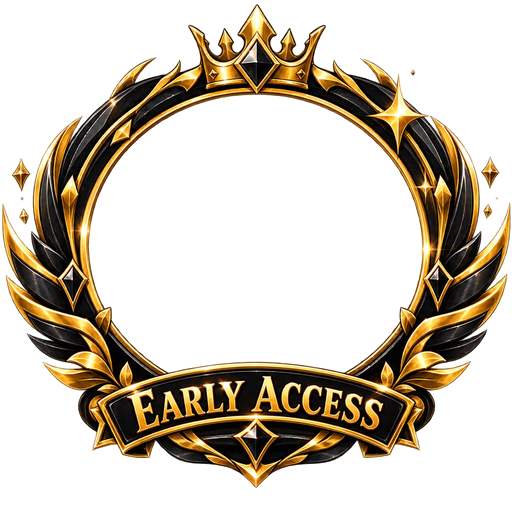
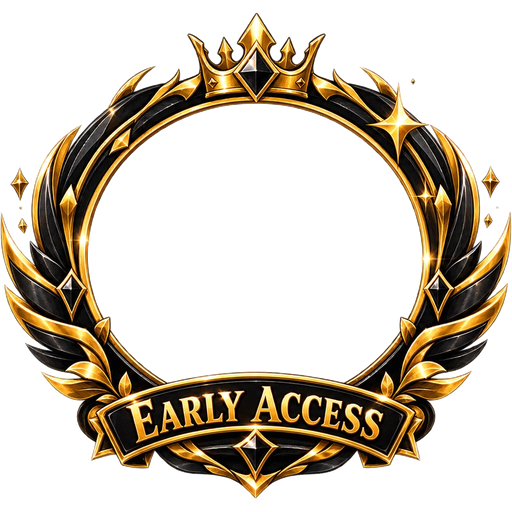
Add files via upload

diff --git a/app.js b/app.js
@@ -21,6 +21,7 @@ let FN_PLAYER_TOKEN = localStorage.getItem("FN_PLAYER_TOKEN") || "";
 let FN_ADMIN_TOKEN = localStorage.getItem("FN_ADMIN_TOKEN") || "";
 let FN_SERVER_PLAYER_ID = localStorage.getItem("FN_SERVER_PLAYER_ID") || "";
 let FN_SERVER_BALANCE = null;
+let GB_GAME_TOKEN = 0;
 let FN_SERVER_SYNCING = false;
 function fnApi(path, options={}, tokenOverride=null){
   if(!FN_API_URL) return Promise.reject(new Error("FN_ADMIN_API_URL_NOT_CONFIGURED"));
@@ -1613,7 +1614,7 @@ function esc(v){return String(v??'').replace(/[&<>\"']/g,c=>({'&':'&amp;','<':'&
     try{const d=await window.FN_API_REQUEST('/profile/settings',{},tok); if(d.settings){const x=Object.assign({},prof(),d.settings);saveProf(x);renderProfile();}}catch(_){}
   }
   function showLobby(){document.getElementById('appSplash')?.classList.add('hide');document.getElementById('appLobby')?.classList.remove('hidden');renderProfile();syncProfileSettings()}
-  function renderProfile(){const p=prof();const n=document.getElementById('playerName'),a=document.getElementById('avatarText'),m=document.getElementById('profileMeta');if(n)n.textContent=p.name;if(a){a.textContent=p.icon||'♠';a.dataset.frame=p.frame||'classic';}const af=document.getElementById('avatarFrame');if(af){const frame=p.frame||'classic';af.hidden=frame!=='early_access'&&frame!=='admin';af.src=frame==='admin'?'admin_frame.png':'early_access_frame.png';af.className=frame==='admin'?'admin-frame-overlay':'avatar-frame';}if(m)m.textContent=p.name+' • LV.'+(Math.floor((p.games||0)/10)+1)}async function start(){if(window.__FN_LOADING)return;window.__FN_LOADING=true;const b=document.getElementById('tapStart'),box=document.getElementById('loadBox'),bar=document.getElementById('loadFill'),pct=document.getElementById('loadPct'),txt=document.getElementById('loadText'),detail=document.getElementById('loadDetail');b.disabled=true;b.classList.add('hidden');box.classList.remove('hidden');const assets=['style.css','app.js','click.wav','chip.wav','card.wav','spin.wav','roulette.wav','dice.wav','flip.wav','win.wav','lose.wav','jackpot.wav','crash.wav'];for(let i=0;i<assets.length;i++){txt.textContent=i<3?'INITIALIZING':i<assets.length-2?'LOADING ASSETS':'FINALIZING';detail.textContent='Loading '+assets[i];try{await fetch(assets[i],{cache:'no-store'})}catch(e){try{debugLog('WARN','ASSET LOAD WARNING',{asset:assets[i]})}catch(_){} }const q=Math.round((i+1)/assets.length*100);bar.style.width=q+'%';pct.textContent=q+'%';await new Promise(r=>setTimeout(r,55))}txt.textContent='READY';detail.textContent='GAME RUNTIME ONLINE';await new Promise(r=>setTimeout(r,350));showLobby()}
+  function renderProfile(){const p=prof();const n=document.getElementById('playerName'),a=document.getElementById('avatarText'),m=document.getElementById('profileMeta');if(n)n.textContent=p.name;if(a){a.textContent=p.icon||'♠';a.dataset.frame=p.frame||'classic';}const af=document.getElementById('avatarFrame');if(af){const frame=p.frame||'classic';const isFrame=frame==='early_access'||frame==='admin';af.hidden=!isFrame;af.src=frame==='admin'?'admin_frame.png':'early_access_frame.png';af.className=isFrame?'avatar-frame':'avatar-frame';}if(m)m.textContent=p.name+' • LV.'+(Math.floor((p.games||0)/10)+1)}async function start(){if(window.__FN_LOADING)return;window.__FN_LOADING=true;const b=document.getElementById('tapStart'),box=document.getElementById('loadBox'),bar=document.getElementById('loadFill'),pct=document.getElementById('loadPct'),txt=document.getElementById('loadText'),detail=document.getElementById('loadDetail');b.disabled=true;b.classList.add('hidden');box.classList.remove('hidden');const assets=['style.css','app.js','click.wav','chip.wav','card.wav','spin.wav','roulette.wav','dice.wav','flip.wav','win.wav','lose.wav','jackpot.wav','crash.wav'];for(let i=0;i<assets.length;i++){txt.textContent=i<3?'INITIALIZING':i<assets.length-2?'LOADING ASSETS':'FINALIZING';detail.textContent='Loading '+assets[i];try{await fetch(assets[i],{cache:'no-store'})}catch(e){try{debugLog('WARN','ASSET LOAD WARNING',{asset:assets[i]})}catch(_){} }const q=Math.round((i+1)/assets.length*100);bar.style.width=q+'%';pct.textContent=q+'%';await new Promise(r=>setTimeout(r,55))}txt.textContent='READY';detail.textContent='GAME RUNTIME ONLINE';await new Promise(r=>setTimeout(r,350));showLobby()}
   async function socialApi(path,opts={}){
     if(typeof window.FN_API_REQUEST!=='function')throw new Error('AUTH_API_NOT_READY');
     let tok=(window.__FN_AUTH_ROLE==='admin' ? (localStorage.getItem('FN_ADMIN_TOKEN')||'') : (localStorage.getItem('FN_PLAYER_TOKEN')||''));

diff --git a/style.css b/style.css
@@ -3874,7 +3874,7 @@ html,body{width:100%;max-width:100%;overflow-x:hidden}
 .fn-admin-grant{width:100%;margin:7px 0 12px;padding:12px;background:linear-gradient(180deg,#c8a54e,#725720);border:1px solid #e0c875;border-radius:6px;color:#080705;font:900 10px Orbitron;letter-spacing:1px;cursor:pointer}.fn-admin-balance{padding:11px;background:#0c0d0e;border:1px solid #302c22;color:#e0c36a;font:800 10px Orbitron;text-align:center}.fn-admin-card pre{height:150px;overflow:auto;margin:12px 0;padding:10px;background:#050607;border:1px solid #27282a;color:#899096;font:8px/1.5 ui-monospace,monospace;white-space:pre-wrap}.fn-admin-card>#fnAdminLogout{width:100%;padding:9px;background:#111314;border:1px solid #493e27;color:#a9abad;border-radius:5px;font:800 8px Orbitron;cursor:pointer}.fn-profile-admin-login{width:100%;margin-bottom:12px}
 @media(max-width:600px){.fn-admin-panel{padding:8px;align-items:flex-end}.fn-admin-card{width:100%;max-height:88vh}.fn-admin-presets{grid-template-columns:repeat(2,1fr)}}
 
-/* v1.20.4 lottery + coin redesign */
+/* v1.20.5 lottery + coin redesign */
 #modal .coin3d{transform-style:preserve-3d!important}
 #modal .coin-face{backface-visibility:hidden!important;transform-style:preserve-3d!important;transition:none!important}
 #modal .coin-head{transform:rotateY(0deg) translateZ(2px)!important}
@@ -3925,7 +3925,7 @@ html,body{width:100%;max-width:100%;overflow-x:hidden}
 @media(max-width:600px){#modal .lottery-digit{height:58px;font-size:24px}}
 
 
-/* v1.20.4 FINAL: Early Access frame alignment */
+/* v1.20.5 FINAL: Early Access frame alignment */
 .avatar-frame,
 .profile-frame,
 .early-access-frame,
@@ -3944,37 +3944,23 @@ img[src*="early_access_frame"]{
   object-fit:contain;
 }
 
-/* v1.20.4: Early Access frame visual alignment */
-.avatar-frame{
-  left:50%!important;
-  top:46%!important;
-  width:150px!important;
-  height:150px!important;
-  transform:translate(-50%,-50%)!important;
-  z-index:0!important;
-  pointer-events:none!important;
-}
 
-/* v1.20.4: Early Access frame visual alignment */
-.avatar-frame{
-  left:50%!important;
-  top:46%!important;
-  width:150px!important;
-  height:150px!important;
-  transform:translate(-50%,-50%)!important;
-  z-index:0!important;
-  pointer-events:none!important;
-}
 
 /* ADMIN frame */
+
+
+/* v1.20.5: identical frame geometry for Early Access and ADMIN */
+.avatar-frame,
 .admin-frame-overlay{
   position:absolute!important;
   left:50%!important;
   top:50%!important;
-  width:100%!important;
-  height:100%!important;
+  width:142px!important;
+  height:142px!important;
+  max-width:none!important;
+  max-height:none!important;
   transform:translate(-50%,-50%)!important;
   object-fit:contain!important;
-  pointer-events:none!important;
   z-index:0!important;
+  pointer-events:none!important;
 }
